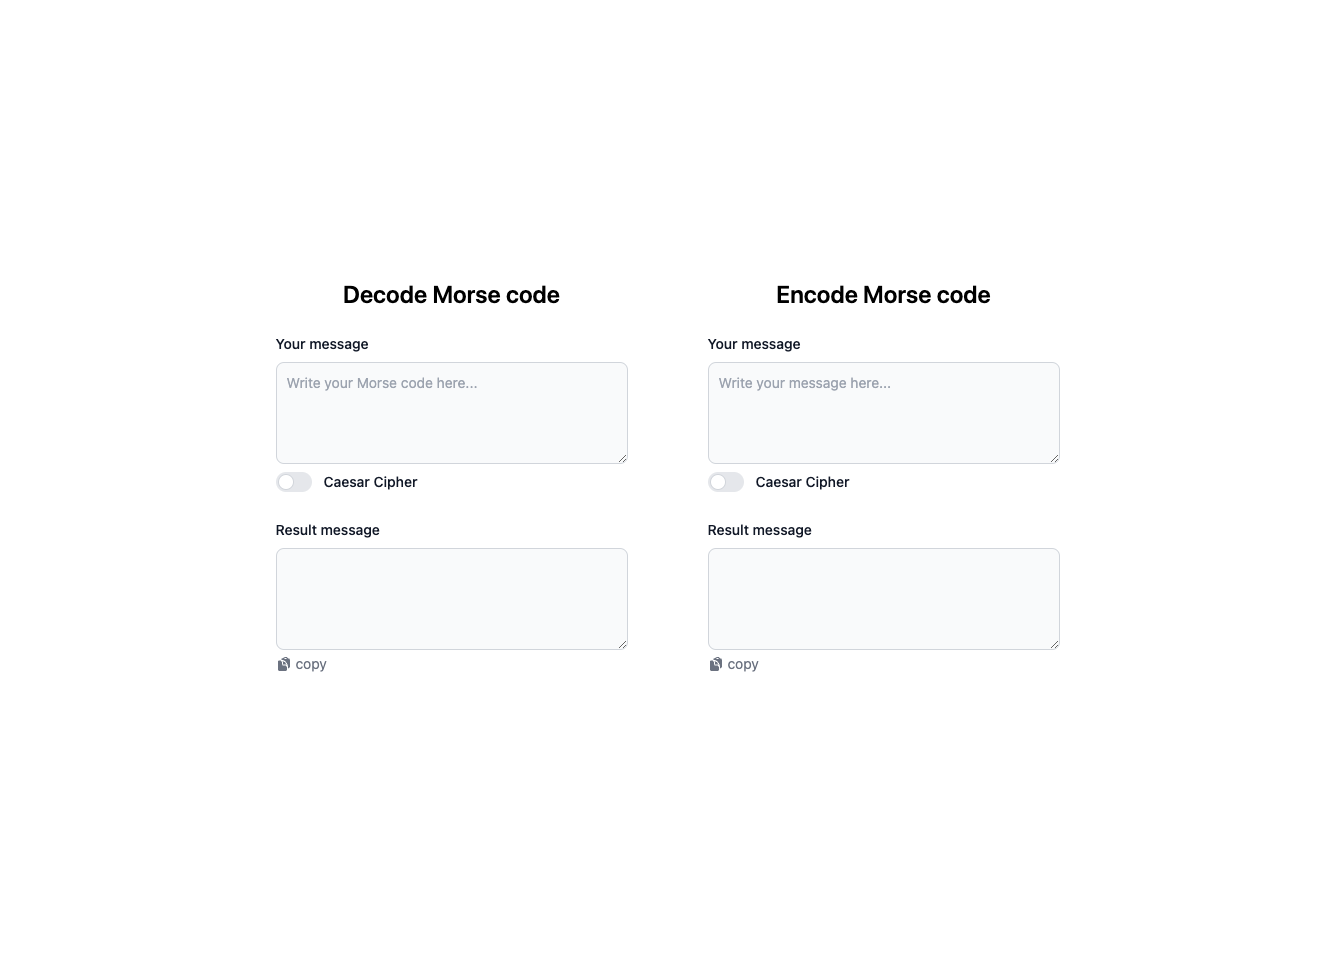
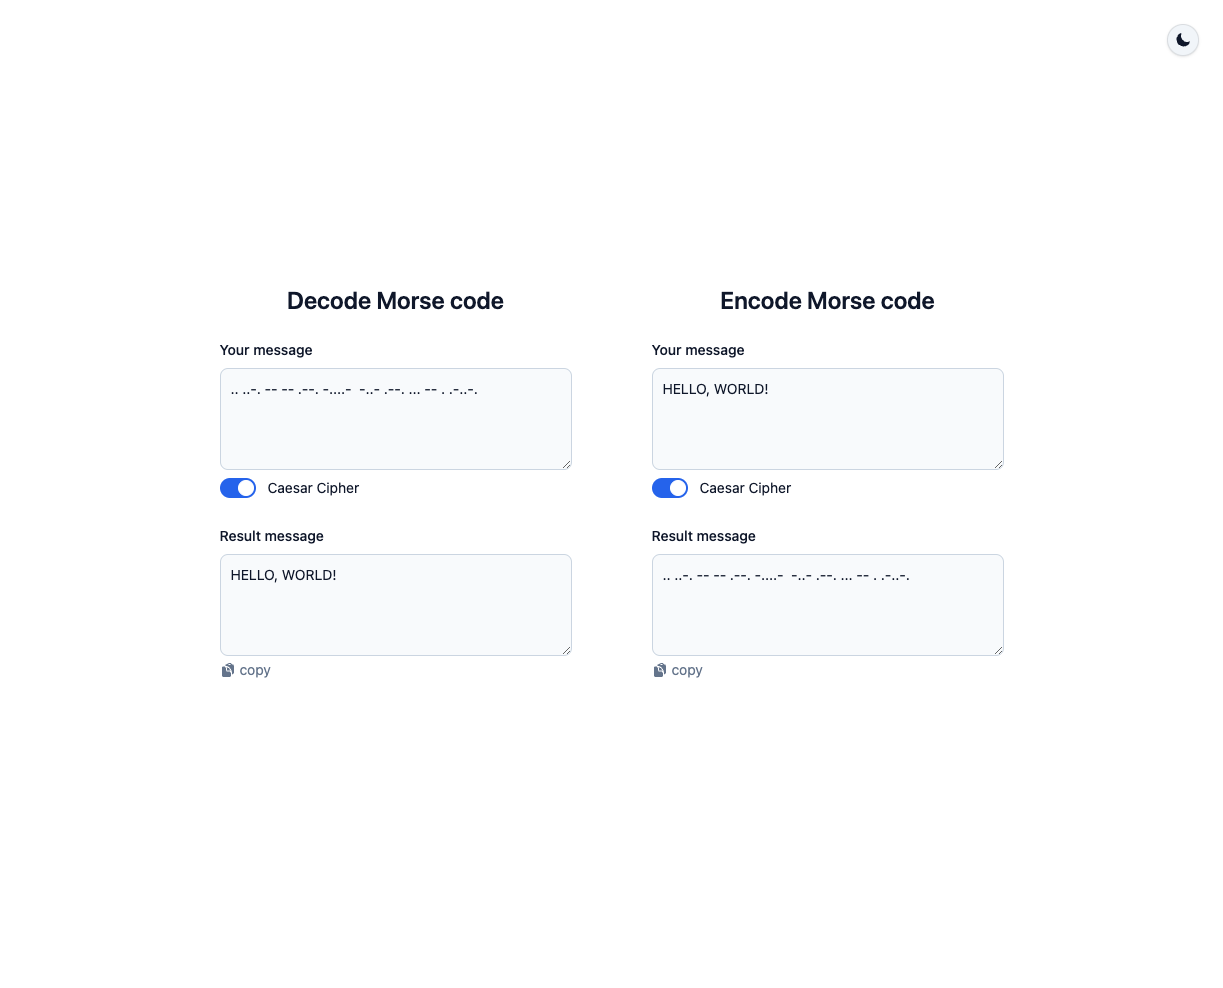
docs: update README.md

diff --git a/README.md b/README.md
@@ -4,9 +4,7 @@ Live Demo: https://mechapear.github.io/code-translator-react/
 
 ![App Screenshot](screenshot1.png)
 
-![App Screenshot](screenshot2.png)
-
-![App Screenshot](screenshot3.png)
+![App Screenshot](screenshot2.png) ![App Screenshot](screenshot3.png)
 
 ## Features
 
@@ -14,4 +12,6 @@ Live Demo: https://mechapear.github.io/code-translator-react/
 - Encode plain text with Morse Code
 - Convert plain text to Caesar Cipher and encode it with Morse Code
 - Copy to clipboard with a sigle click
+- Drark mode and Light mode available
+- Remembers user settings with local storage
 - Responsive design
